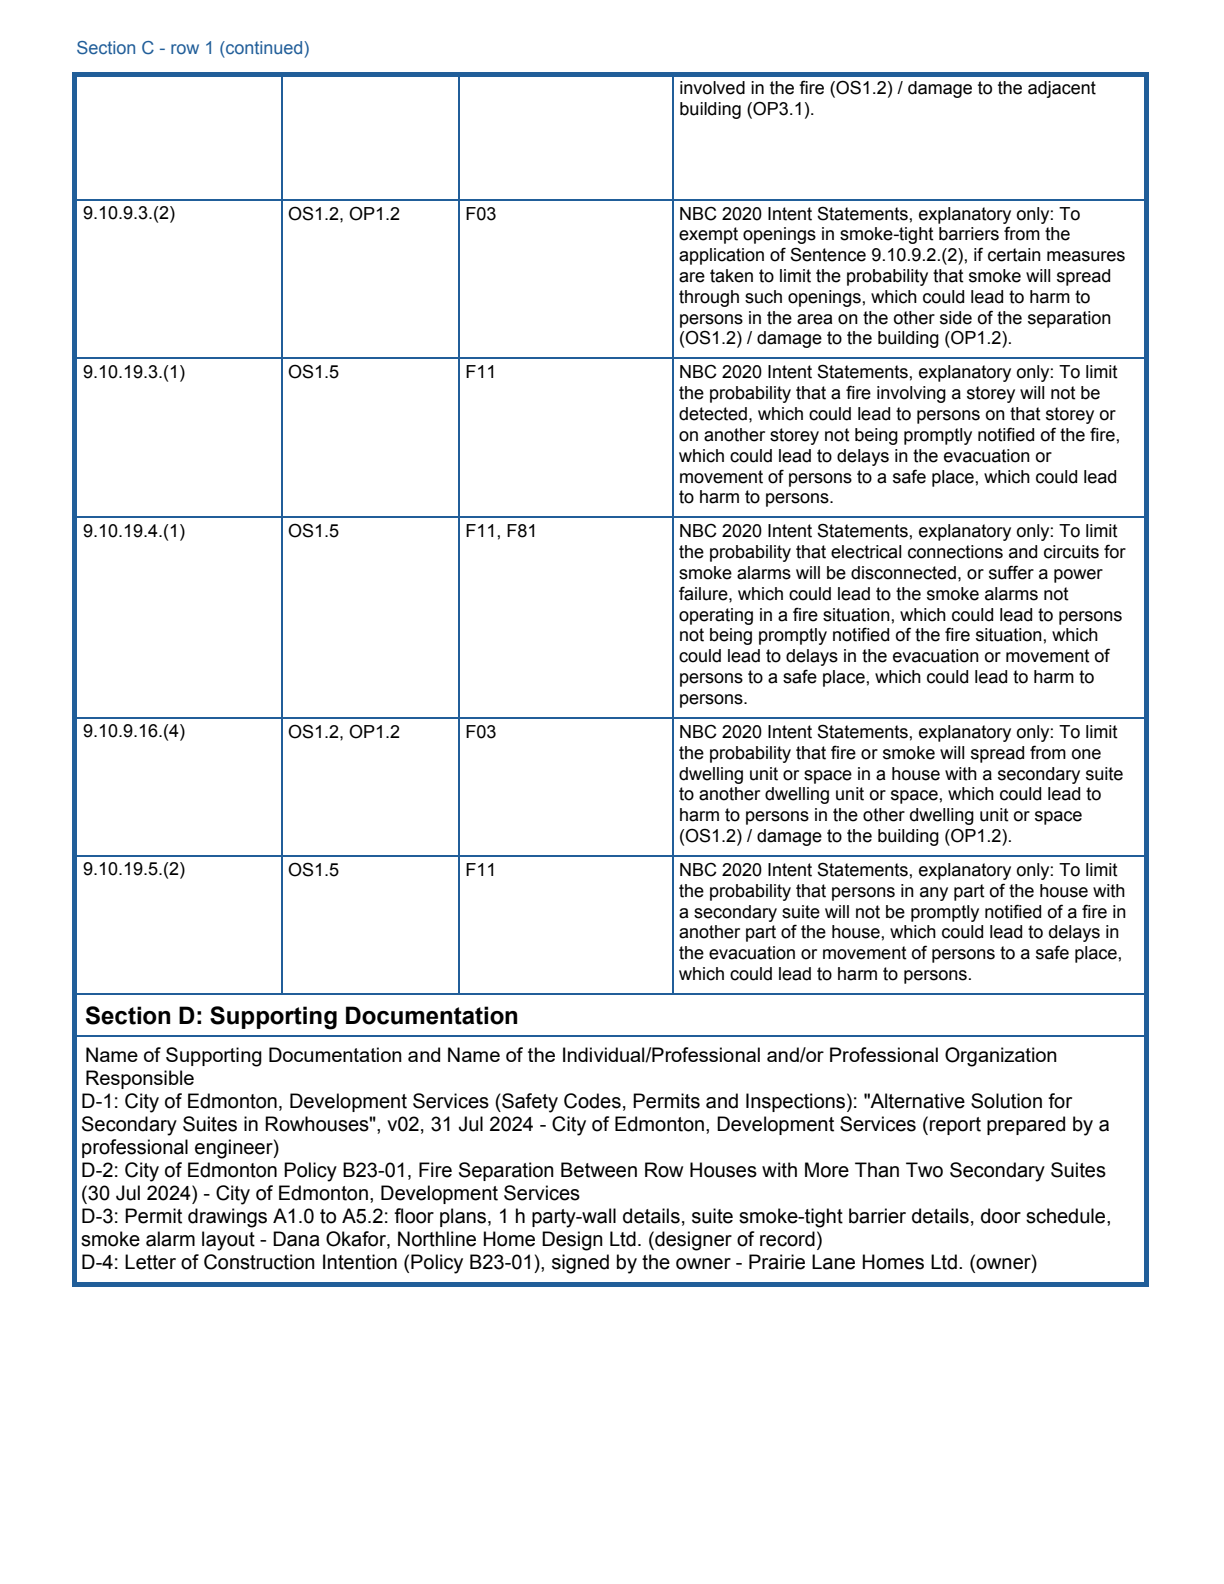
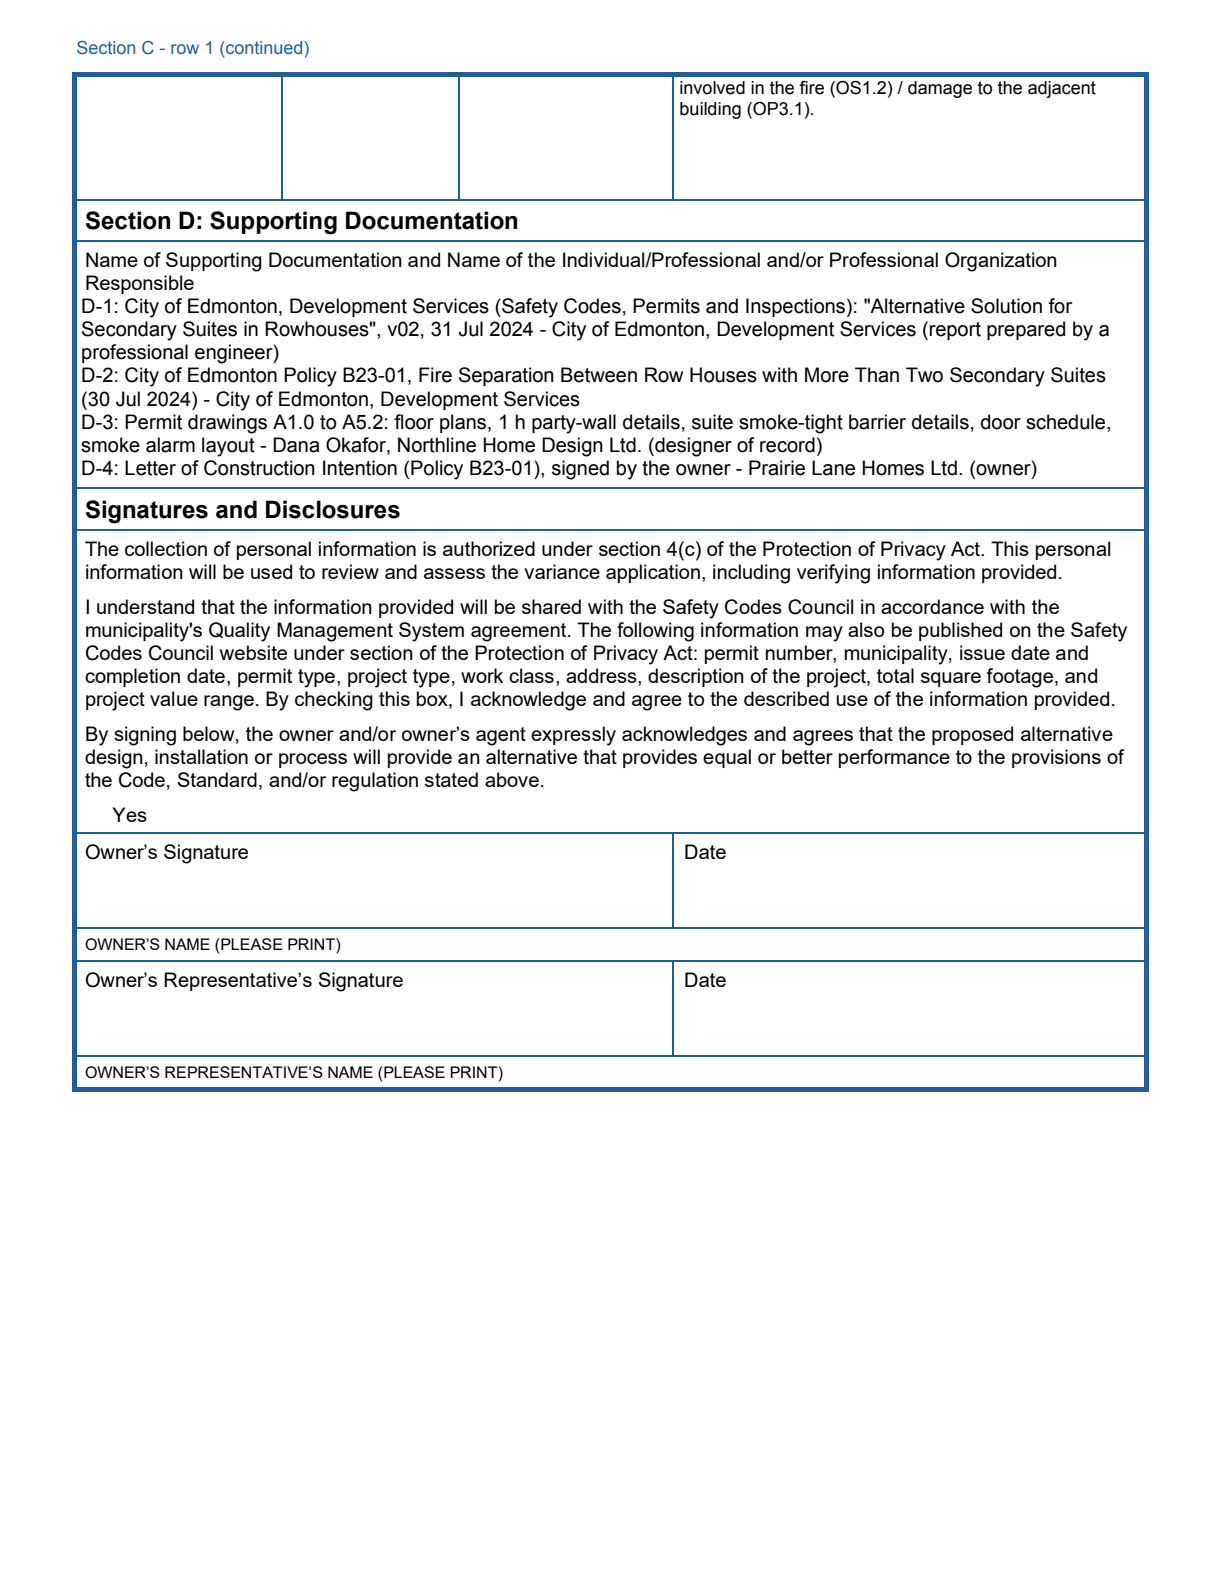
Show the City's one Section C row, and the same form with it deleted

Changed region(s): [[0.031, 0.1237, 0.9624, 0.8352]]

diff --git a/web/src/studio/deck.ts b/web/src/studio/deck.ts
@@ -35,17 +35,14 @@ export const deck: Deck = {
       slides: [
         {
           kind: "compare", id: "villain-diff", title: "Section C, deleted",
-          // Page 1 is identical in both; the two removed Section C rows are on page 2.
+          // The one Section C row sits at the foot of page 1 (rects from /studio/img/forms.json).
           left: {
-            src: "/studio/img/form-complete-p2.png", label: "Complete",
-            marks: [
-              { rect: { x: 72, y: 717, w: 1077, h: 140 }, tone: "blue", label: "9.10.9.16.(4)" },
-              { rect: { x: 72, y: 855, w: 1077, h: 140 }, tone: "blue", label: "9.10.19.5.(2)" },
-            ],
+            src: "/studio/img/form-complete-p1.png", label: "Complete",
+            marks: [{ rect: { x: 72, y: 1316, w: 1077, h: 129 }, tone: "blue", label: "9.10.11.2.(2)" }],
           },
           right: {
-            src: "/studio/img/form-incomplete-p2.png", label: "Section C removed",
-            marks: [{ rect: { x: 72, y: 717, w: 1077, h: 250 }, tone: "ink", label: "Missing" }],
+            src: "/studio/img/form-incomplete-p1.png", label: "Section C removed",
+            marks: [{ rect: { x: 72, y: 1316, w: 1077, h: 129 }, tone: "ink", label: "Missing" }],
           },
         },
         { kind: "statement", id: "villain-back", text: "More information\nrequired.", accent: "required.", sub: "Weeks later." },
